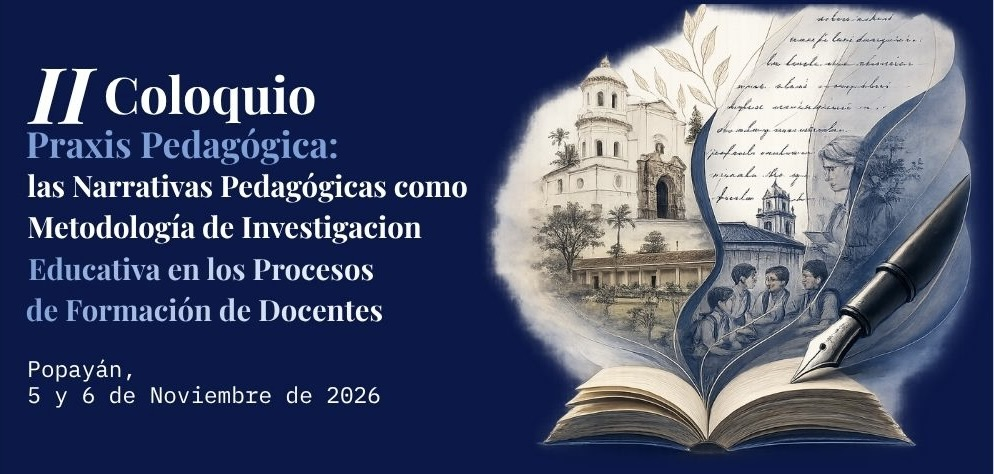
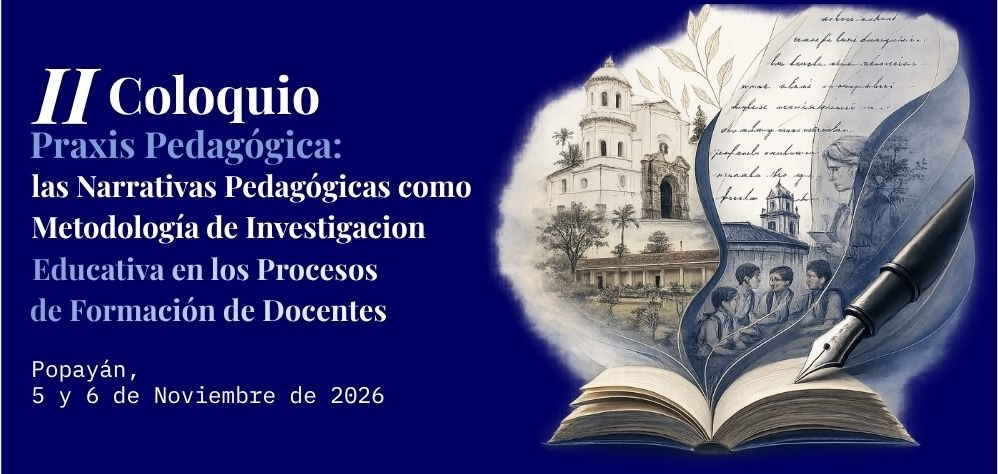
V5.1

diff --git a/index.html b/index.html
@@ -287,6 +287,7 @@
         </div>
         <div class="row g-4 justify-content-center">
           <div class="col-xl-4 col-lg-4 col-md-4 col-sm-6">
+
             <div class="teacher-card">
               <a href="https://www.researchgate.net/profile/Daniel-Suarez-9" target="_blank"
                 class="text-decoration-none text-dark">
@@ -296,18 +297,9 @@
                 <div class="teacher-name">Daniel Hugo Suárez</div>
                 <div class="teacher-title">Director del Instituto de investigaciones en Ciencias de la Educación</div>
                 <div class="teacher-title">Universidad de Buenos Aires </div>
-
-                <div class="teacher-desc">El doctor Daniel Hugo Suárez es Director
-                  del Instituto de Investigaciones en Ciencias de la Educación de
-                  la Universidad de Buenos Aires, Argentina. Su trayectoria académica
-                  se ha destacado por sus aportes al campo de la pedagogía, la formación
-                  docente y la investigación educativa en América Latina, especialmente en
-                  temas relacionados con narrativas pedagógicas, memoria escolar y transformación
-                  de las prácticas educativas. Su trabajo ha contribuido al fortalecimiento de
-                  procesos de reflexión crítica e innovación en diversos escenarios universitarios
-                  y escolares.</div>
               </a>
             </div>
+
           </div>
         </div>
       </div>
